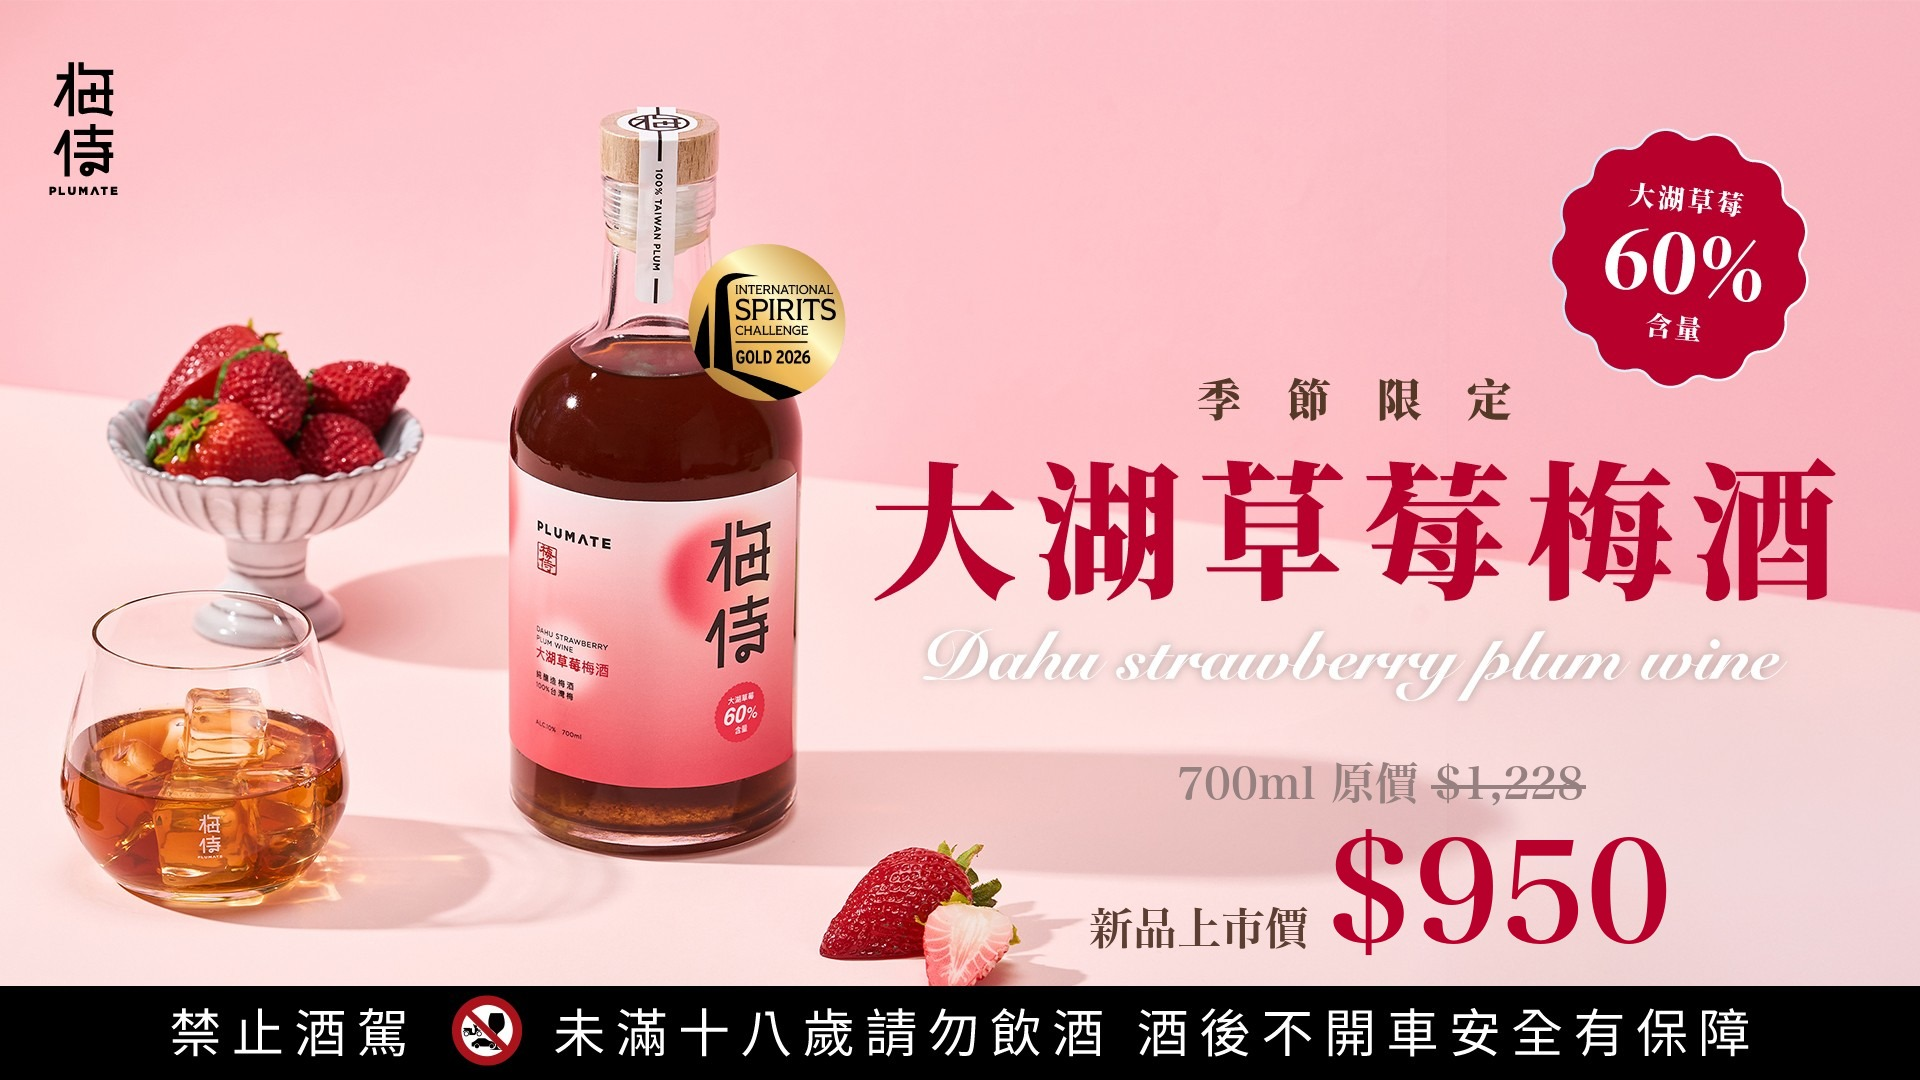
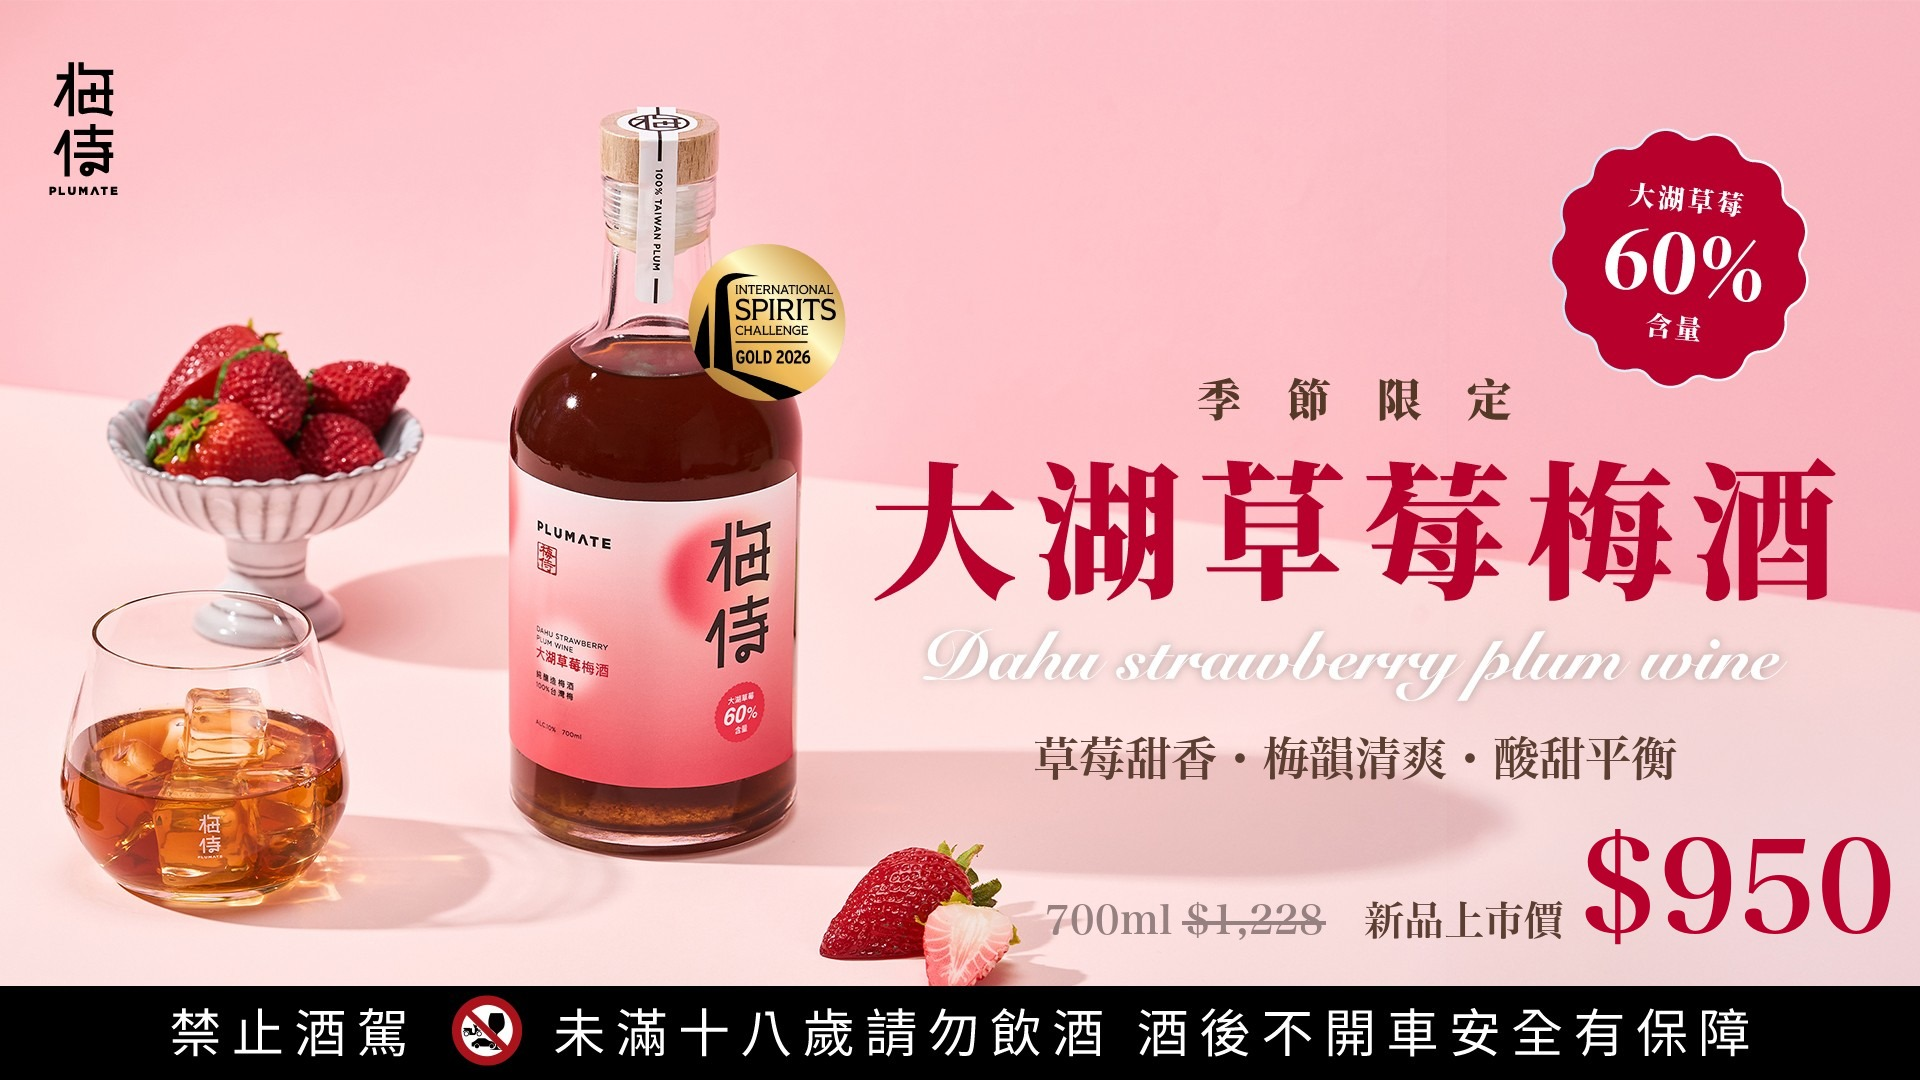
sync: 鏡像同步正式站 20261118-1511

Changed region(s): [[0.5312, 0.6722, 1.0, 0.8861]]

diff --git a/index.html b/index.html
@@ -97,7 +97,7 @@
     <div class="banner-carousel" id="bannerCarousel" aria-label="梅侍活動與新品輪播">
       <div class="bc-track">
         <!-- 新品上市價至 2026/11/30：12/1 起換回無價格版 banner-strawberry-1118.jpg -->
-        <img class="bc-slide" src="assets/banner-strawberry-950-1118.jpg?v=1" alt="季節限定｜大湖草莓梅酒 Dahu strawberry plum wine｜大湖草莓 60% 含量｜2026 ISC 金牌｜700ml 原價 $1,228，新品上市價 $950" />
+        <img class="bc-slide" src="assets/banner-strawberry-950-1118.jpg?v=2" alt="季節限定｜大湖草莓梅酒 Dahu strawberry plum wine｜草莓甜香・梅韻清爽・酸甜平衡｜大湖草莓 60% 含量｜2026 ISC 金牌｜700ml 原價 $1,228，新品上市價 $950" />
         <img class="bc-slide" src="assets/banner-horse-1118.jpg?v=1" alt="年終獻禮｜名畫入瓶，好酒成雙｜雙馬聯名款東方美人茶梅酒・奔馬聯名款凍頂烏龍茶梅酒 700ml｜2瓶 $2,000（單瓶原價 $1,388）現省 $776" />
         <!-- 舊素材（暫停使用）：
         <img class="bc-slide" src="assets/banner-awards2608.jpg?v=2" alt="梅侍榮獲 2026 ISC 國際烈酒競賽 1金3銀｜紅烏龍茶梅酒金牌，碧螺春綠茶・荔枝・玫瑰鹽紅柚梅酒銀牌" />（2026-11-02 下架：比例 2160×1130 被裁到底部警語，待重做 1920×1080 再上）
